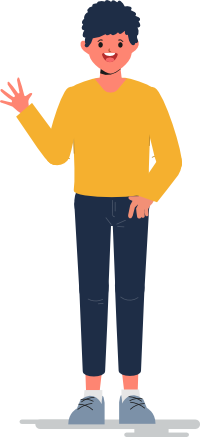
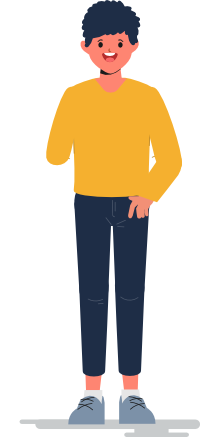
menambahkan animasi lambai tangan

Changed region(s): [[0.0, 0.1785, 0.27, 0.3867]]

diff --git a/src/components/section9/Section9b.js b/src/components/section9/Section9b.js
@@ -13,7 +13,7 @@ const Section9a = () => {
     <Box
       sx={{
         width: { xs: "100%" },
-        height: { xs: "600px", sm: "400px" },
+        height: { xs: "600px", sm: "400px", lg: "300px" },
         paddingX: { xs: "16px", sm: "0px" },
         position: { xs: "relative" },
         display: { xs: "flex" },
@@ -24,18 +24,18 @@ const Section9a = () => {
     >
       <Parallax
         translateX={[]}
-        speed={sm ? 70 : 40}
+        speed={sm ? 70 : 50}
         style={
           lg
             ? {
                 position: "absolute",
-                right: "15%",
+                left: "15%",
                 zIndex: 16,
               }
             : sm
             ? {
                 position: "absolute",
-                right: "5%",
+                left: "5%",
                 zIndex: 16,
               }
             : {
@@ -44,9 +44,14 @@ const Section9a = () => {
               }
         }
       >
-        <Box sx={{ width: { xs: "320px", sm: "350px", lg: "400px" } }}>
+        <Box
+          sx={{
+            width: { xs: "320px", sm: "350px", lg: "400px" },
+            boxShadow: { xs: "", sm: "0px 2px 6px rgb(0,0,0, 0.3)" },
+          }}
+        >
           <img
-            src="assets/image/polusi-jakarta.jpg"
+            src="assets/image/gas-emisi.jpg"
             alt="Polusi Jakarta"
             style={{ width: "100%" }}
           />
@@ -54,12 +59,12 @@ const Section9a = () => {
       </Parallax>
       <Parallax
         translateX={[]}
-        speed={sm ? 50 : 80}
+        speed={sm ? 50 : 70}
         style={
           lg
-            ? { position: "absolute", left: "10%", zIndex: 17 }
+            ? { position: "absolute", right: "10%", zIndex: 17 }
             : sm
-            ? { position: "absolute", left: "5%", zIndex: 17 }
+            ? { position: "absolute", right: "5%", zIndex: 17 }
             : { position: "absolute", top: "100px", zIndex: 17 }
         }
       >

diff --git a/src/components/section9/Section9a.js b/src/components/section9/Section9a.js
@@ -13,7 +13,7 @@ const Section9a = () => {
     <Box
       sx={{
         width: { xs: "100%" },
-        height: { xs: "600px", sm: "400px", md: "100px" },
+        height: { xs: "600px", sm: "400px", md: "200px" },
         paddingX: { xs: "16px", sm: "0px" },
         paddingTop: { xs: "100px", sm: "0px" },
         position: { xs: "relative" },
@@ -25,18 +25,18 @@ const Section9a = () => {
     >
       <Parallax
         translateX={[]}
-        speed={sm ? 70 : 40}
+        speed={sm ? 70 : 50}
         style={
           lg
             ? {
                 position: "absolute",
-                left: "15%",
+                right: "15%",
                 zIndex: 16,
               }
             : sm
             ? {
                 position: "absolute",
-                left: "5%",
+                right: "5%",
                 zIndex: 16,
               }
             : {
@@ -45,7 +45,12 @@ const Section9a = () => {
               }
         }
       >
-        <Box sx={{ width: { xs: "320px", sm: "350px", lg: "400px" } }}>
+        <Box
+          sx={{
+            width: { xs: "320px", sm: "350px", lg: "400px" },
+            boxShadow: { xs: "", sm: "0px 2px 6px rgb(0,0,0, 0.3)" },
+          }}
+        >
           <img
             src="assets/image/polusi-jakarta.jpg"
             alt="Polusi Jakarta"
@@ -55,12 +60,12 @@ const Section9a = () => {
       </Parallax>
       <Parallax
         translateX={[]}
-        speed={sm ? 50 : 80}
+        speed={sm ? 50 : 70}
         style={
           lg
-            ? { position: "absolute", right: "10%", zIndex: 17 }
+            ? { position: "absolute", left: "10%", zIndex: 17 }
             : sm
-            ? { position: "absolute", right: "5%", zIndex: 17 }
+            ? { position: "absolute", left: "5%", zIndex: 17 }
             : { position: "absolute", top: "200px", zIndex: 17 }
         }
       >

diff --git a/src/components/Section8.js b/src/components/Section8.js
@@ -1,8 +1,9 @@
 import { Box, Typography } from "@mui/material";
+import { useEffect } from "react";
 import AOS from "aos";
 import "aos/dist/aos.css";
+import "../css/Section8.css";
 import color from "../themes/Color";
-import { useEffect } from "react";
 
 const Section8 = () => {
   useEffect(() => {
@@ -59,13 +60,22 @@ const Section8 = () => {
           </Typography>
         </Box>
         <Box
-          sx={{ height: { xs: "300px", sm: "400px", md: "500px" } }}
+          sx={{
+            position: { xs: "relative" },
+            height: { xs: "300px", sm: "400px", md: "500px" },
+            transform: "translate(0,0)",
+          }}
           data-aos="fade-left"
           data-aos-duration="1000"
         >
           <img
+            className="tangan-satria"
+            src="assets/image/tangan-satria.png"
+            alt="Tangan"
+          />
+          <img
             src="assets/image/satria.png"
-            alt="Didin"
+            alt="Satria"
             style={{ height: "100%" }}
           />
         </Box>

diff --git a/src/css/Section8.css b/src/css/Section8.css
@@ -1,0 +1,40 @@
+@keyframes melambai {
+  0% {
+    transform: rotate(-5deg);
+    transform-origin: 100% 100%;
+  }
+  50% {
+    transform: rotate(30deg);
+    transform-origin: 100% 100%;
+  }
+  100% {
+    transform: rotate(-5deg);
+    transform-origin: 100% 100%;
+  }
+}
+.tangan-satria {
+  animation-name: melambai;
+  animation-duration: 3s;
+  animation-timing-function: linear;
+  animation-iteration-count: infinite;
+  position: absolute;
+  top: 70px;
+  left: -17px;
+  width: 88px;
+}
+
+@media screen and (max-width: 900px) {
+  .tangan-satria {
+    top: 55px;
+    left: -13px;
+    width: 70px;
+  }
+}
+
+@media screen and (max-width: 600px) {
+  .tangan-satria {
+    top: 45px;
+    left: -8px;
+    width: 50px;
+  }
+}
